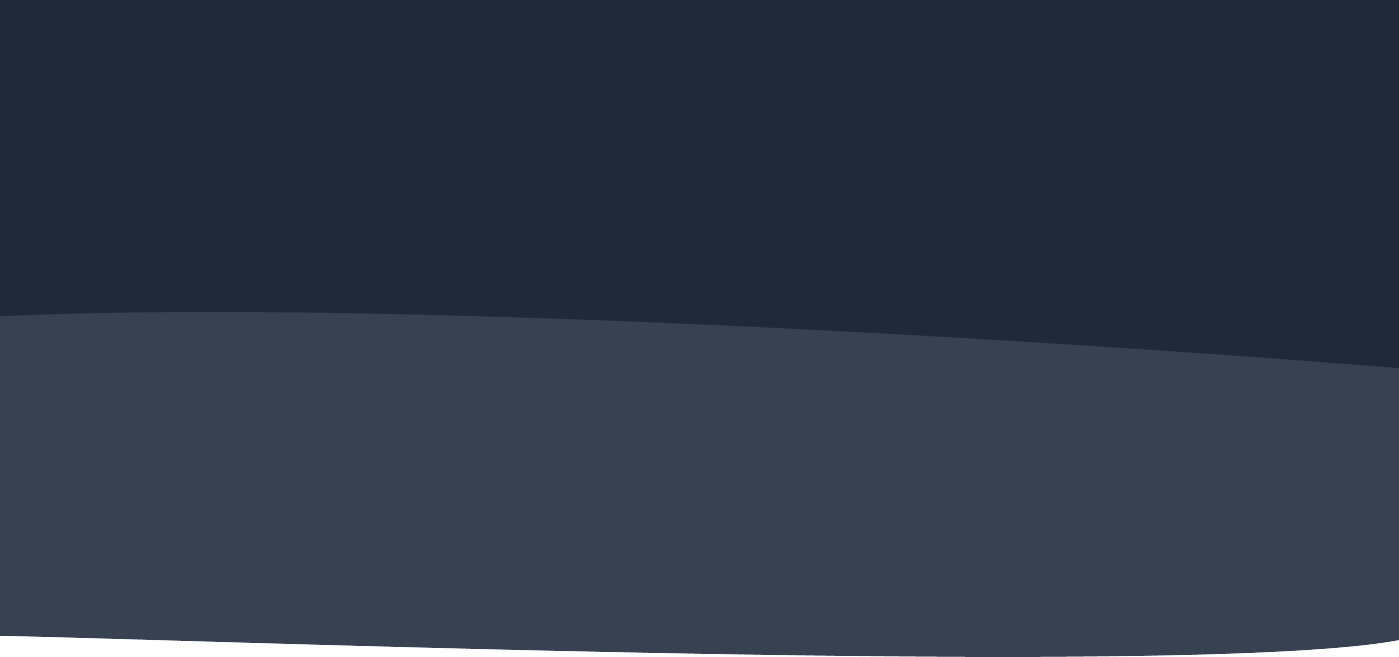
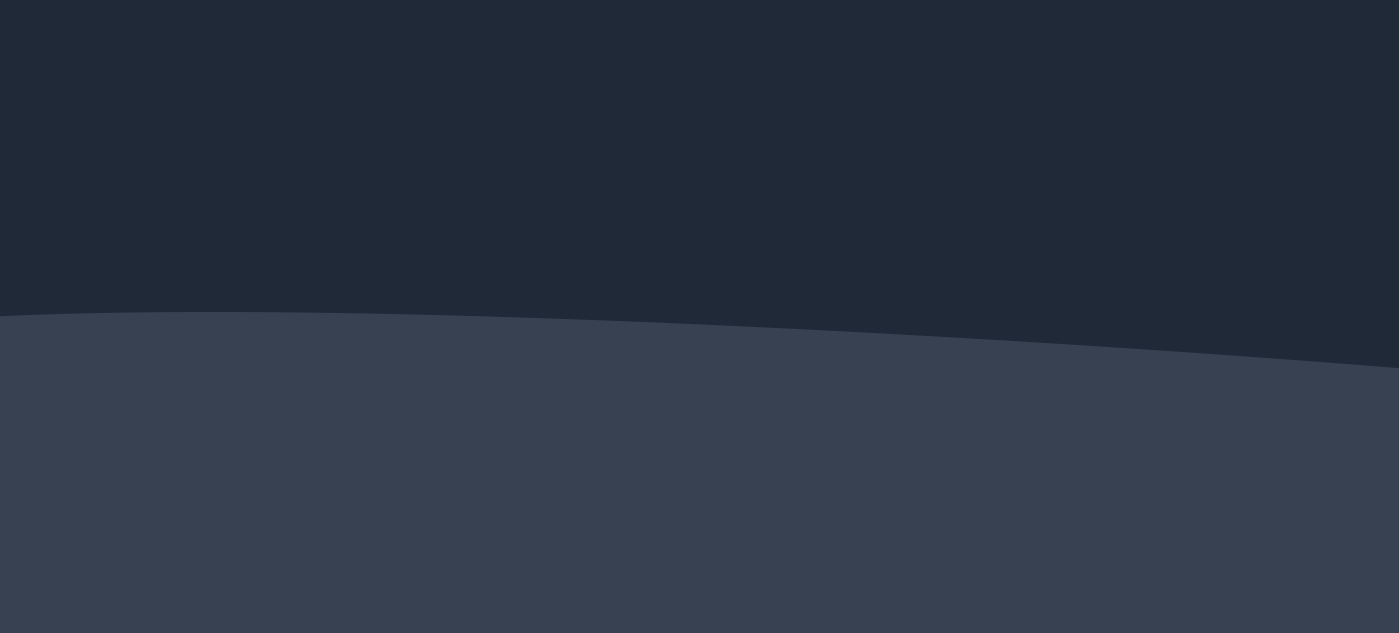
nk

Changed region(s): [[0.0, 0.4502, 1.0, 0.6003], [0.0, 0.9605, 0.6762, 1.0], [0.7377, 0.9605, 1.0, 1.0]]

diff --git a/client/src/App.jsx b/client/src/App.jsx
@@ -10,8 +10,6 @@ import 'bootstrap/dist/css/bootstrap.min.css'
 import 'bootstrap/dist/js/bootstrap.bundle.min.js'
 import CommonNavbar from "./components/commonNavbar";
 import LandingPageHeader from "./components/userHome/header/landingPage-2";
-
-
 import Footer from "./components/common/userNavbar/Footer";
 import CompanyRegistration from "./components/userHome/CompanyRegistration";
 import AdminLogin from "./components/userHome/AdminLogin";

diff --git a/client/src/components/userHome/header/landingPage-2.jsx b/client/src/components/userHome/header/landingPage-2.jsx
@@ -192,9 +192,11 @@ function LandingPageHeader() {
               a seamless, user-friendly, and robust experience for users. <br />
               Here are some key elements and steps to consider:</p>
           </div>
-
         </div>
       </div>
+      <div className='landingheader-h3'>
+
+</div>
     </div>
   )
 }

diff --git a/client/src/components/common/userNavbar/Footer.jsx b/client/src/components/common/userNavbar/Footer.jsx
@@ -8,7 +8,7 @@ import img4 from "../../../assets/images/facebook.png"
 function Footer() {
   return (
     <div>
-      <footer>
+      <footer className='footer-h1'>
         <div class="row ">
           <div class="col ">
             <div className='left-footer-inner-box my-4'>

diff --git a/client/src/components/userHome/header/landingPage-2.css b/client/src/components/userHome/header/landingPage-2.css
@@ -314,4 +314,13 @@ td {
     font-style: normal;
     font-weight: 700;
     line-height: normal;
+    letter-spacing: normal;
+}
+
+/* landingheader-h3 */
+
+.landingheader-h3{
+    width: 100%;
+    height: 743px;
+    background: #1F2937;
 }

diff --git a/client/src/components/common/userNavbar/Footer.css b/client/src/components/common/userNavbar/Footer.css
@@ -4,6 +4,7 @@ footer
     height:242px;
     width: 100%;
     position: relative;
+    /* top: 1200px; */
     bottom: 0;
 }
 
